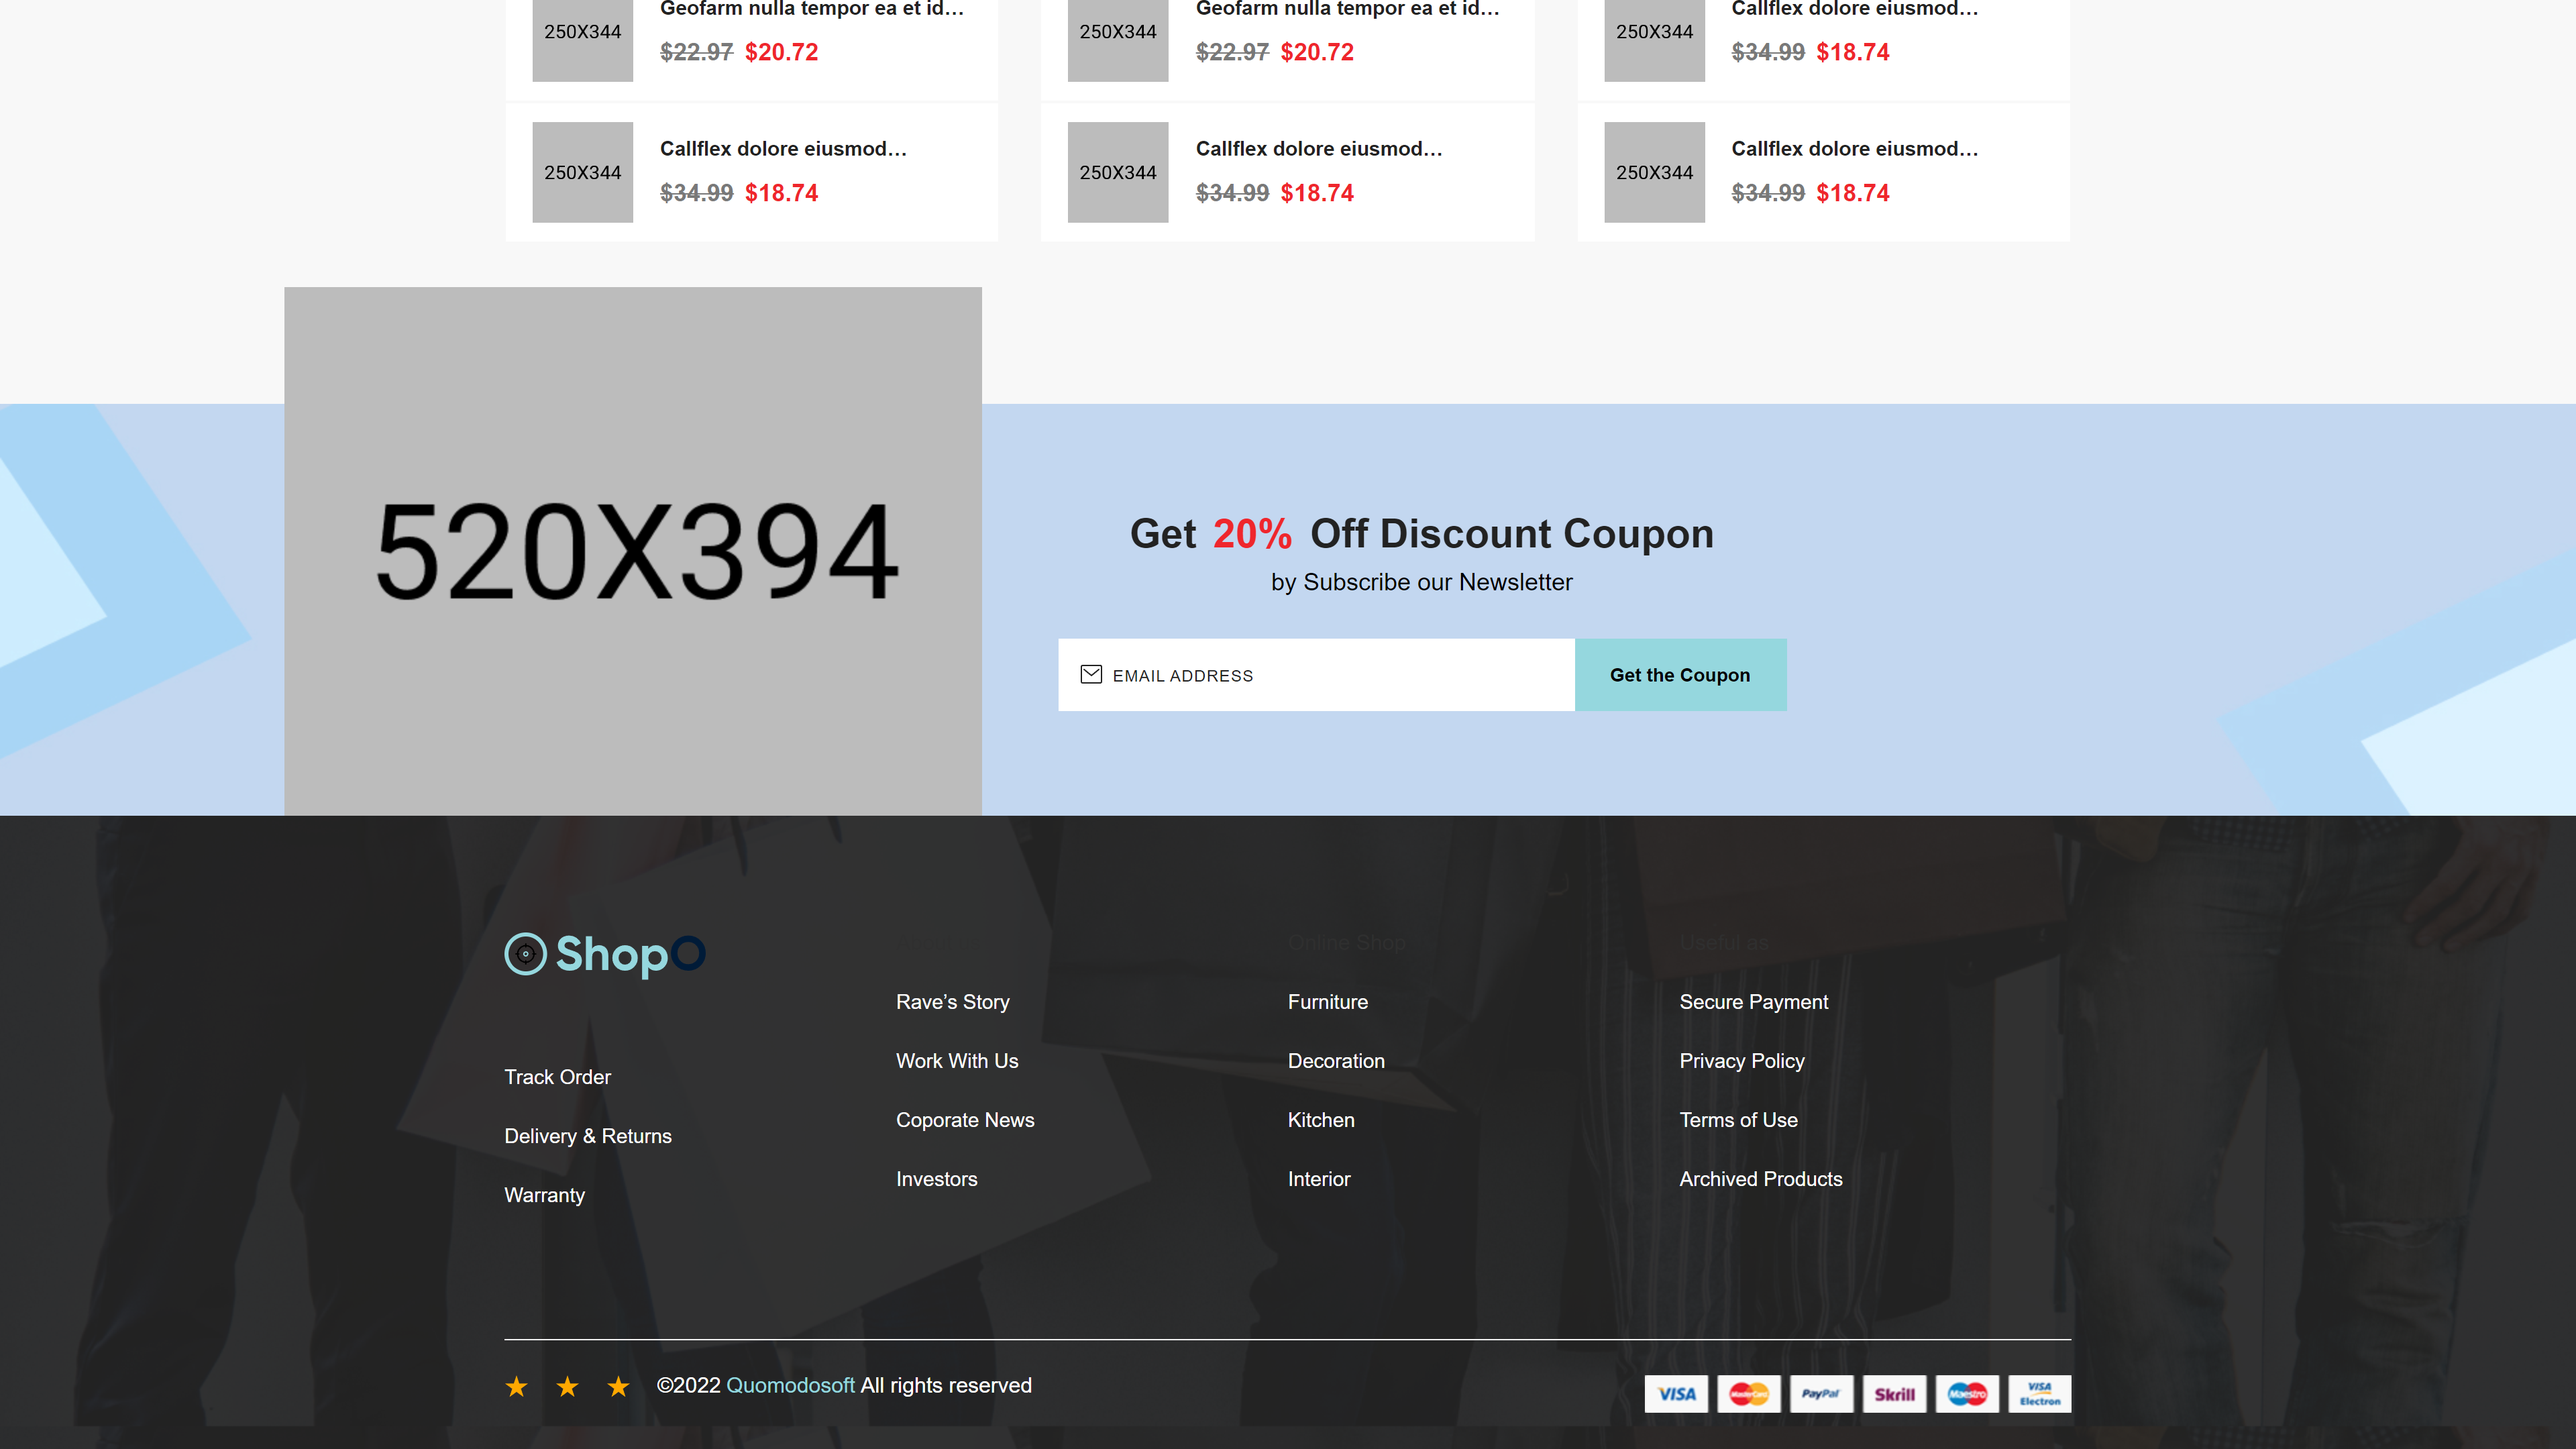
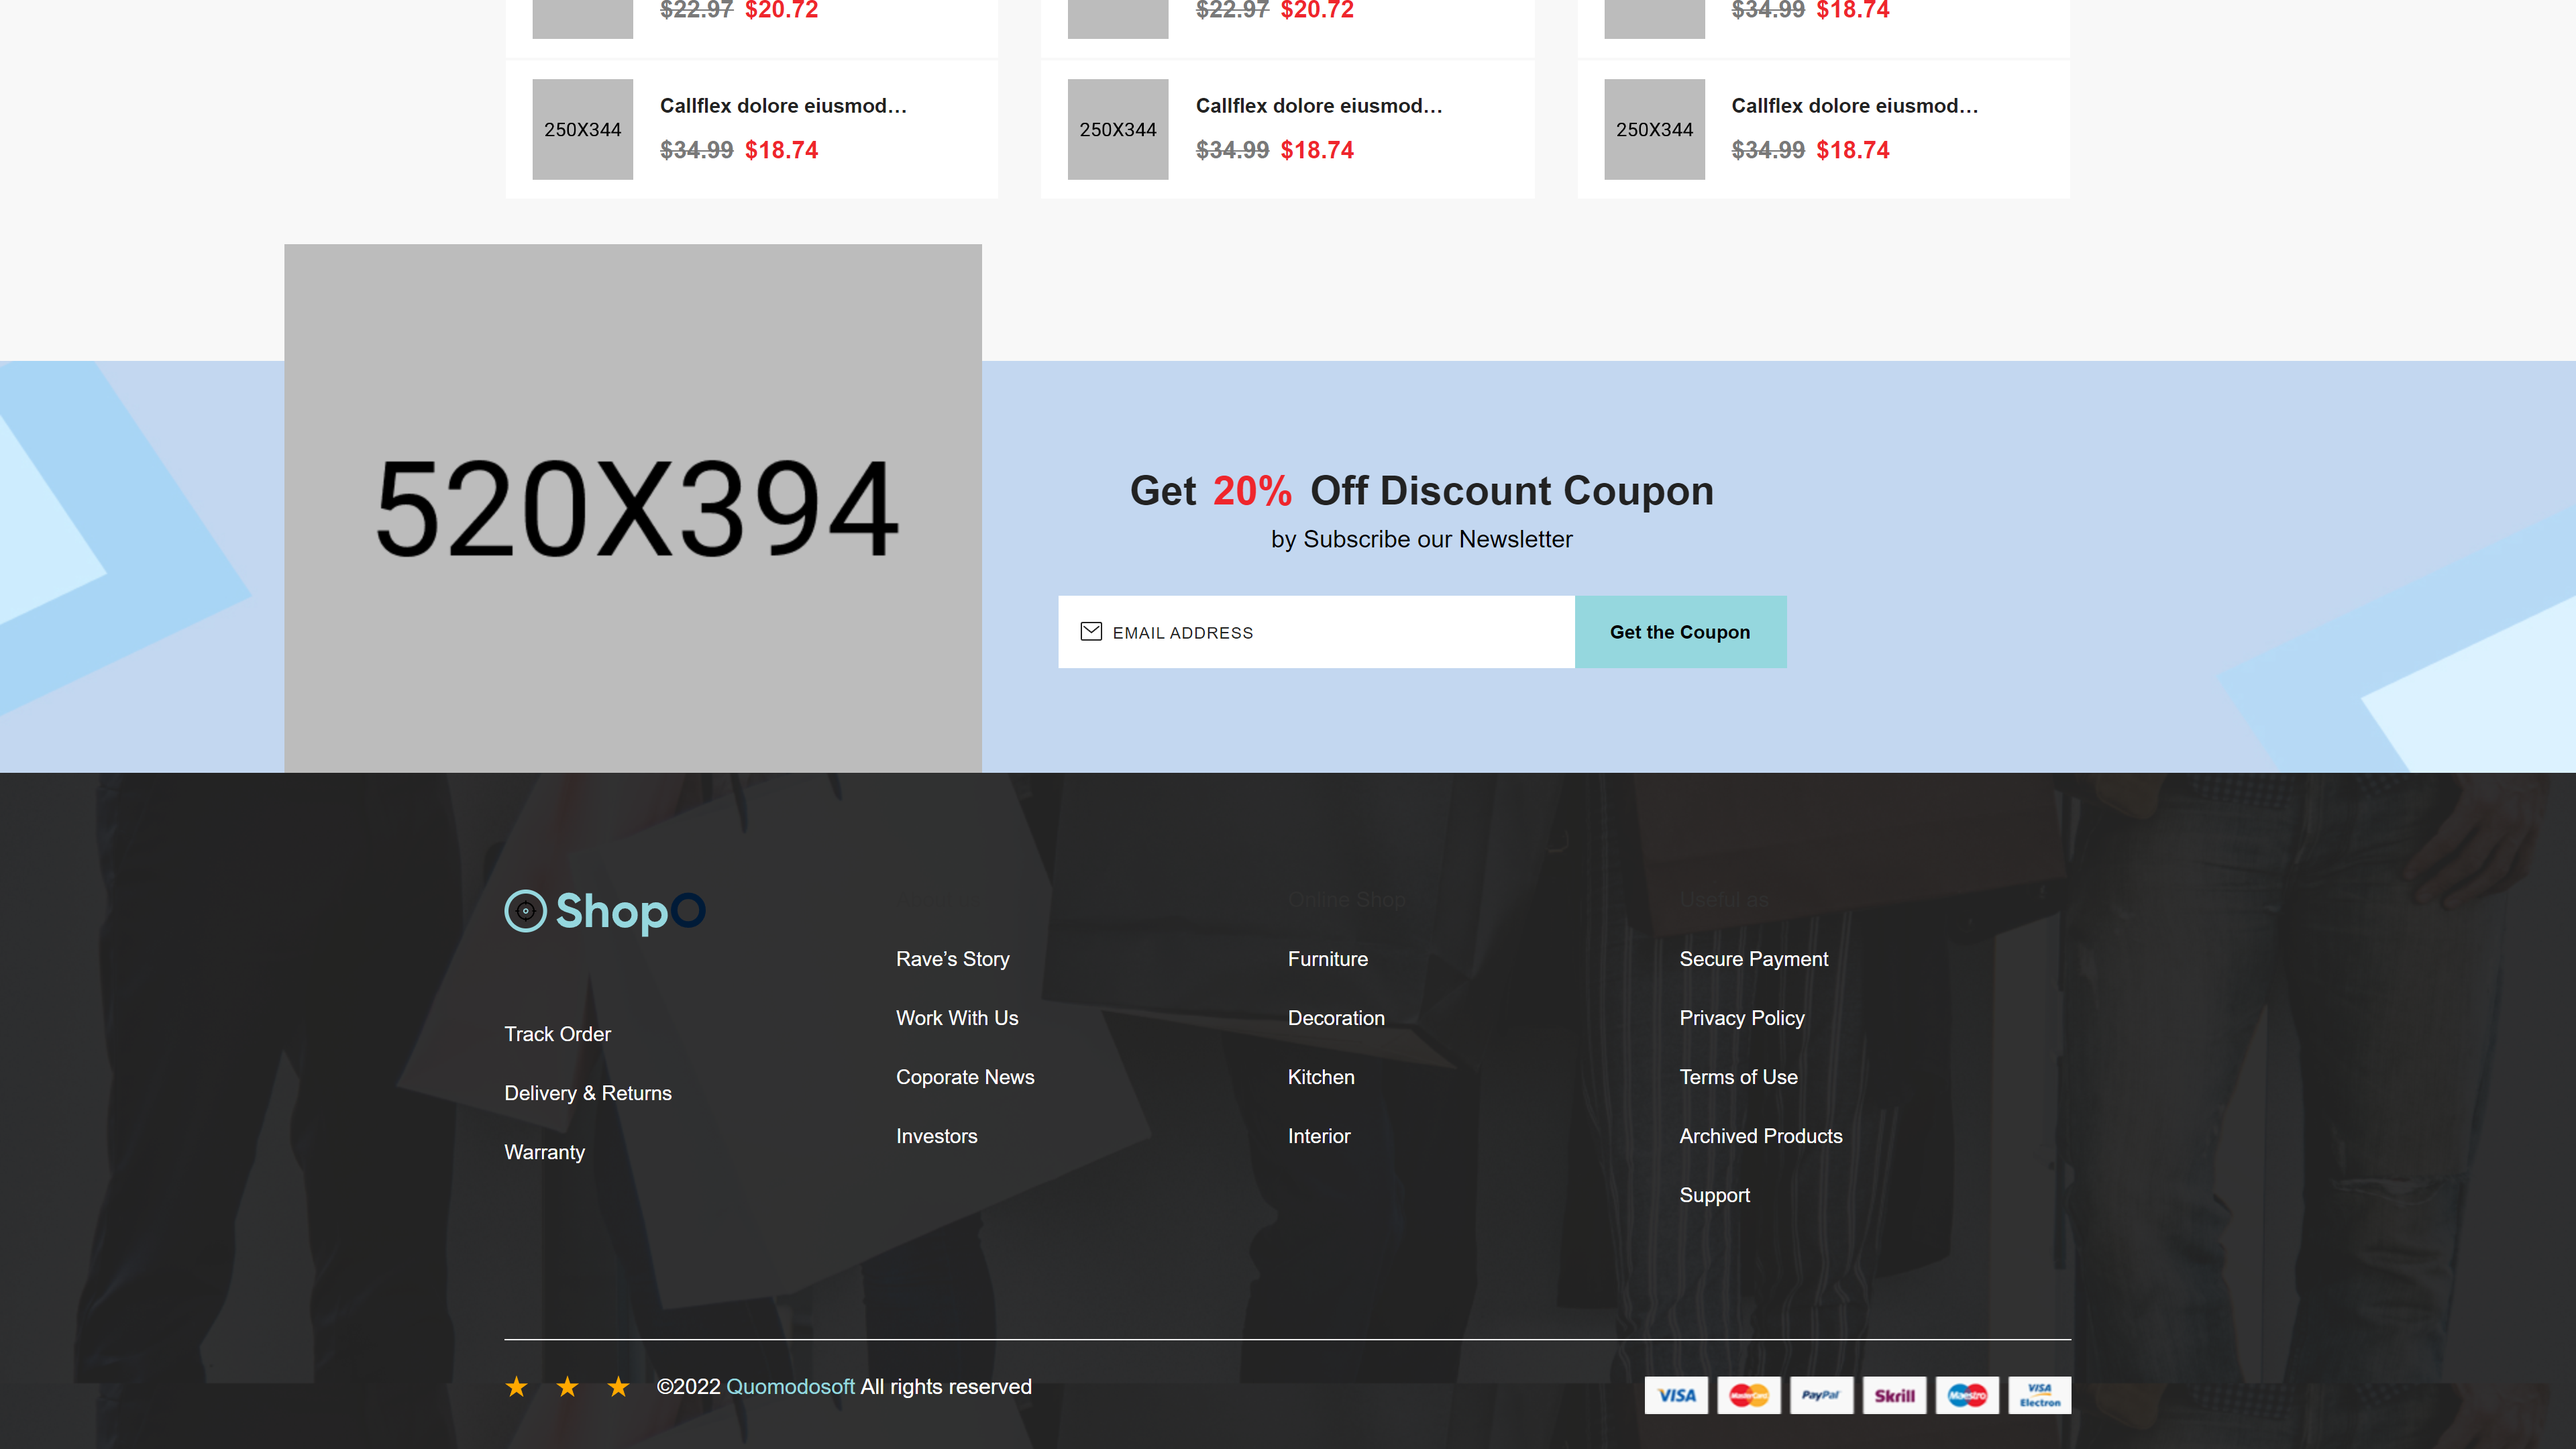
Update

diff --git a/src/components/Footer/index.jsx b/src/components/Footer/index.jsx
@@ -160,6 +160,13 @@ export default function Footer() {
                     </span>
                   </a>
                 </li>
+                <li>
+                  <a to="/">
+                    <span className="text-white text-[15px] hover:text-[#9a9a9a] hover:underline">
+                      Support
+                    </span>
+                  </a>
+                </li>
               </ul>
             </div>
           </div>
